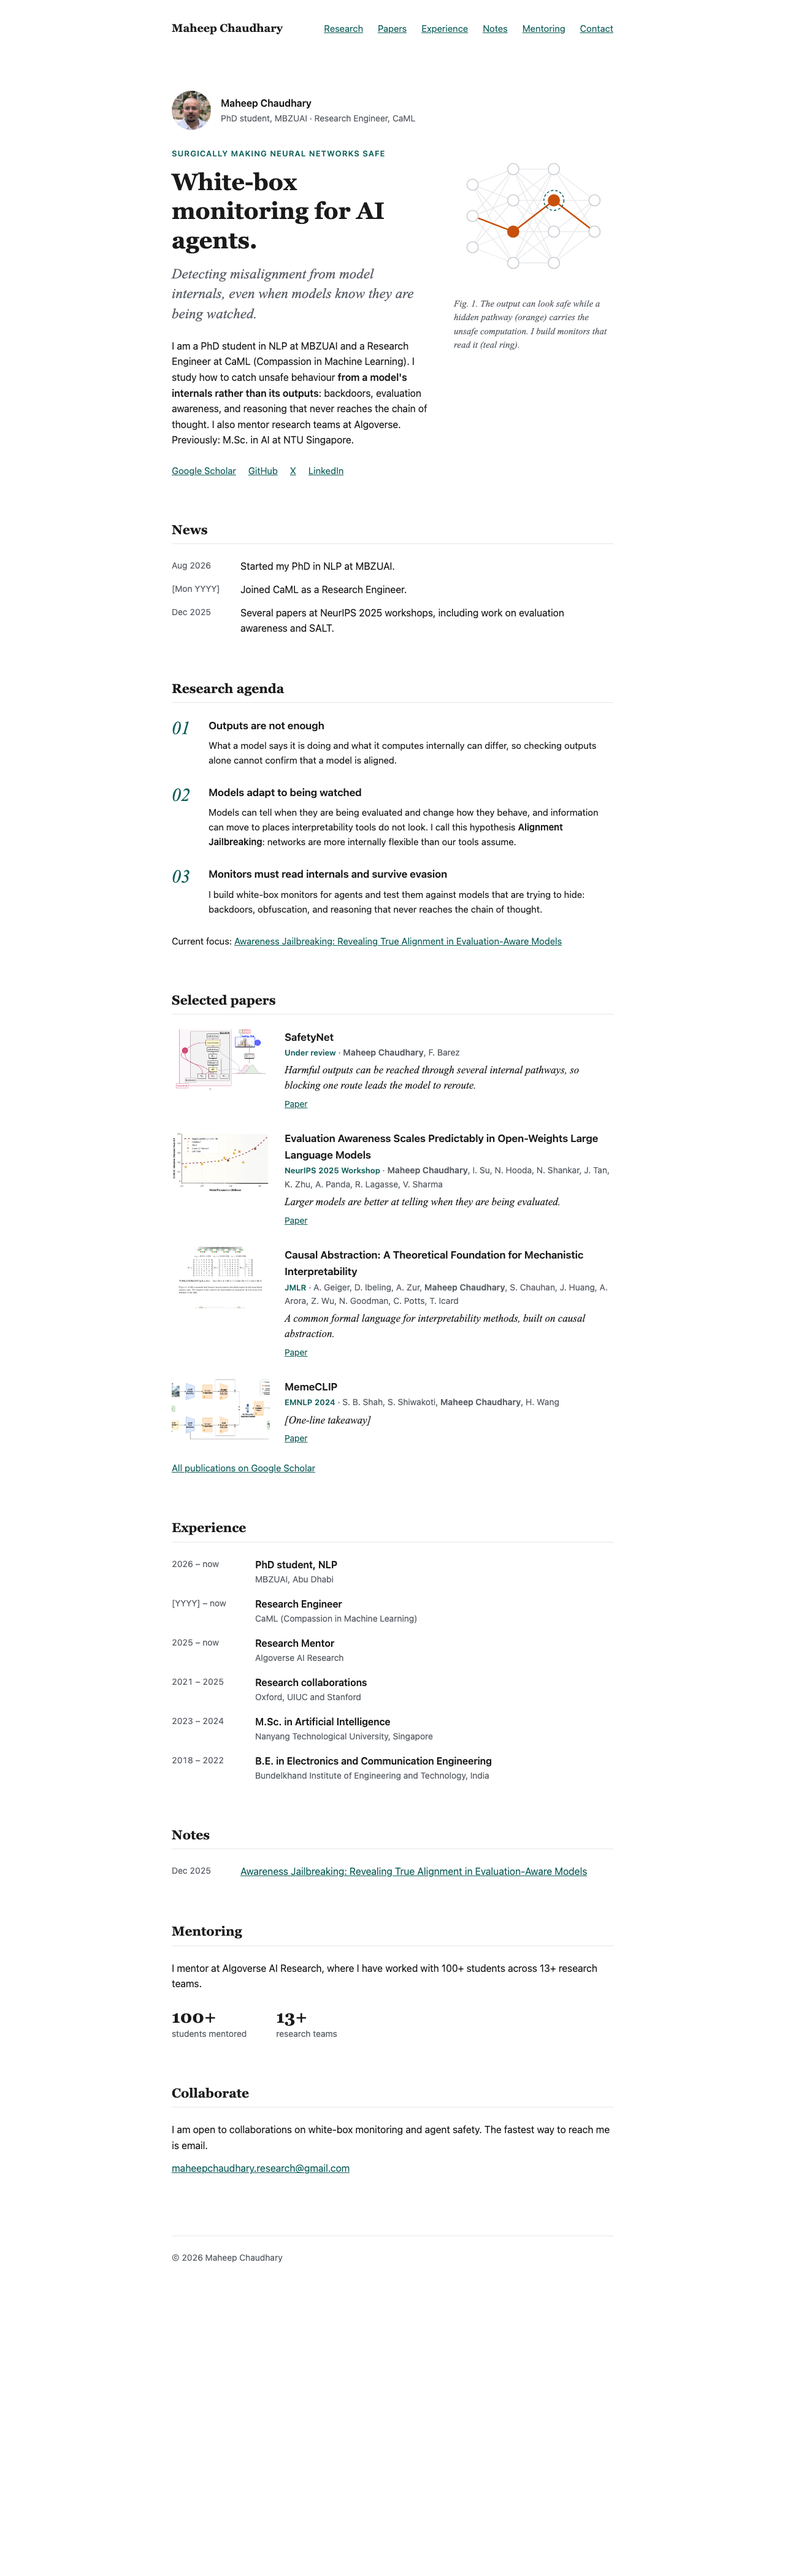
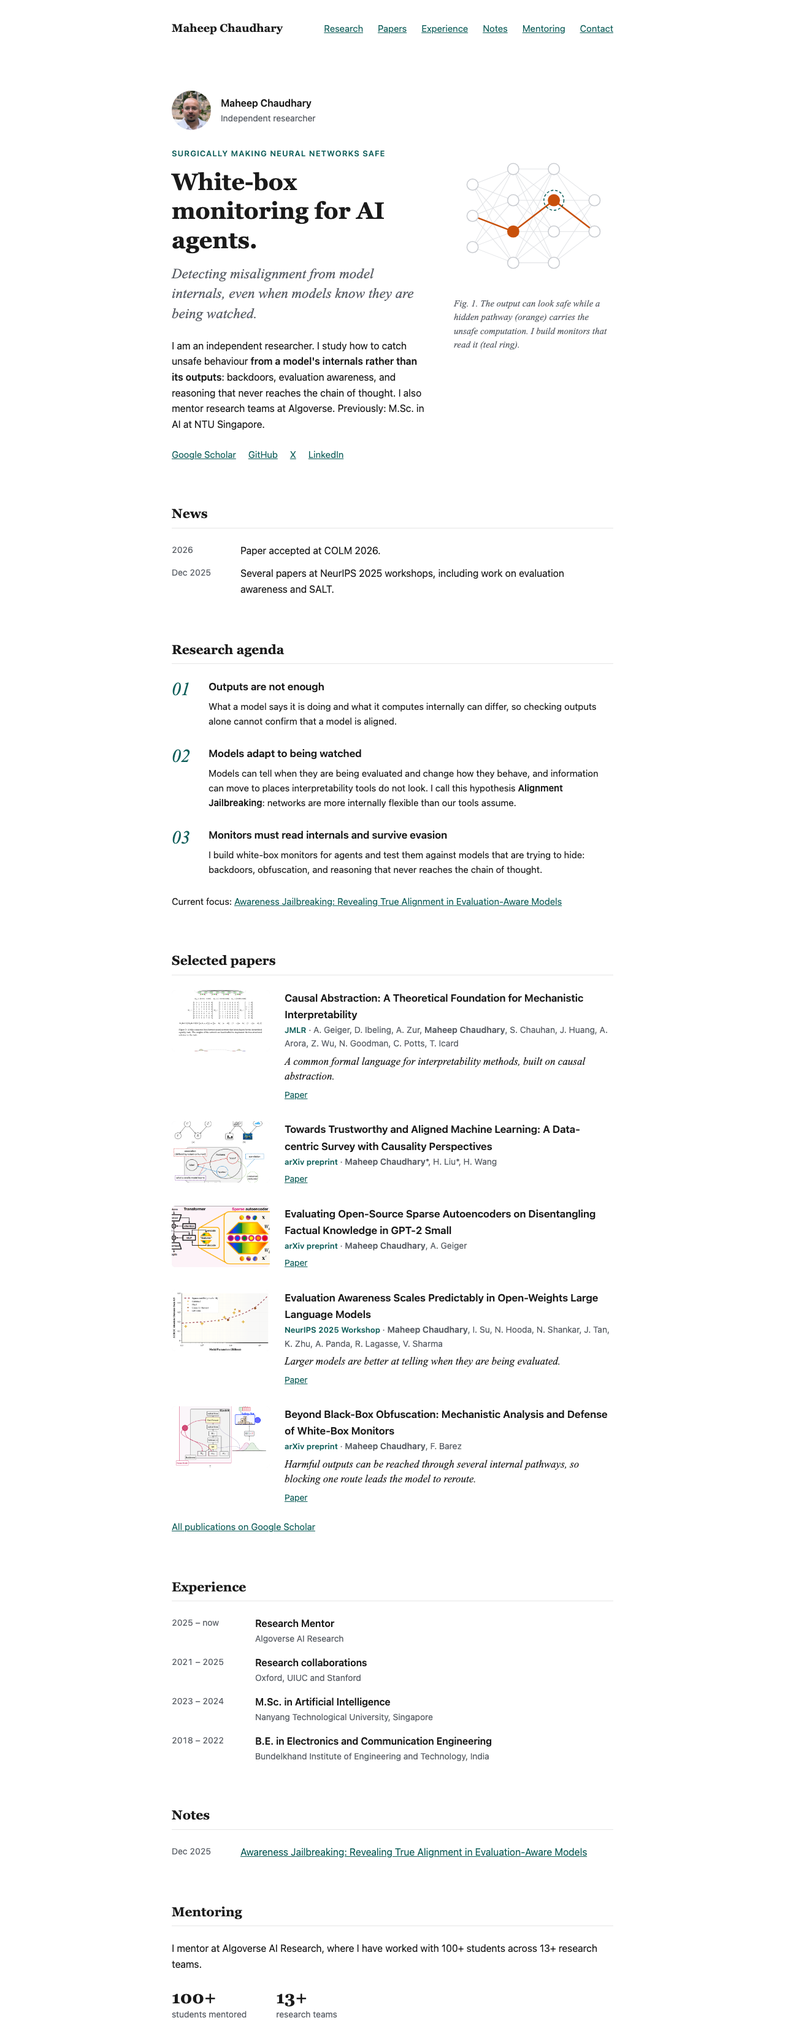
Present as independent researcher; update selected papers and news
Remove PhD and CaML mentions, list five selected papers, add COLM 2026 news.

diff --git a/index.html b/index.html
@@ -4,9 +4,9 @@
 <meta charset="utf-8">
 <meta name="viewport" content="width=device-width, initial-scale=1">
 <title>Maheep Chaudhary — White-box monitoring for AI agents</title>
-<meta name="description" content="Maheep Chaudhary: PhD student at MBZUAI and Research Engineer at CaML, working on white-box monitoring for AI agents.">
+<meta name="description" content="Maheep Chaudhary: independent researcher working on white-box monitoring for AI agents.">
 <meta property="og:title" content="Maheep Chaudhary — White-box monitoring for AI agents">
-<meta property="og:description" content="Maheep Chaudhary: PhD student at MBZUAI and Research Engineer at CaML, working on white-box monitoring for AI agents.">
+<meta property="og:description" content="Maheep Chaudhary: independent researcher working on white-box monitoring for AI agents.">
 <meta property="og:type" content="website">
 <meta property="og:url" content="https://maheepchaudhary.github.io/">
 <meta property="og:image" content="https://maheepchaudhary.github.io/images/pp.jpeg">
@@ -39,7 +39,7 @@ a{color:#0f5e5a}a:hover{color:#0a4441}
 <img src="images/pp.jpeg" alt="Maheep Chaudhary" width="64" height="64" style="flex:0 0 64px; width:64px; height:64px; border-radius:50%; object-fit:cover;">
 <div>
 <div style="font-family:Inter, system-ui, sans-serif; font-weight:600; font-size:16px;">Maheep Chaudhary</div>
-<div style="font-size:14px; color:#5a5f66; font-variant-numeric:tabular-nums;">PhD student, MBZUAI &middot; Research Engineer, CaML</div>
+<div style="font-size:14px; color:#5a5f66; font-variant-numeric:tabular-nums;">Independent researcher</div>
 </div>
 </div>
 <div style="display:flex; flex-direction:row; gap:40px; flex-wrap:wrap; align-items:flex-start;">
@@ -47,7 +47,7 @@ a{color:#0f5e5a}a:hover{color:#0a4441}
 <p style="font-size:13px; font-weight:600; text-transform:uppercase; letter-spacing:0.08em; color:var(--accent); margin:0 0 12px;">Surgically making neural networks safe</p>
 <h1 style="font-family:Merriweather, Georgia, serif; font-weight:700; font-size:38px; line-height:1.25; margin:0;">White-box monitoring for AI agents.</h1>
 <p style="font-family:'Times New Roman', Times, serif; font-style:italic; font-weight:400; font-size:23px; line-height:1.4; color:#5a5f66; margin:16px 0 0;">Detecting misalignment from model internals, even when models know they are being watched.</p>
-<p style="margin:24px 0 0;">I am a PhD student in NLP at MBZUAI and a Research Engineer at CaML (Compassion in Machine Learning). I study how to catch unsafe behaviour <strong style="font-weight:600">from a model's internals rather than its outputs</strong>: backdoors, evaluation awareness, and reasoning that never reaches the chain of thought. I also mentor research teams at Algoverse. Previously: M.Sc. in AI at NTU Singapore.</p>
+<p style="margin:24px 0 0;">I am an independent researcher. I study how to catch unsafe behaviour <strong style="font-weight:600">from a model's internals rather than its outputs</strong>: backdoors, evaluation awareness, and reasoning that never reaches the chain of thought. I also mentor research teams at Algoverse. Previously: M.Sc. in AI at NTU Singapore.</p>
 <div style="margin-top:24px; display:flex; flex-wrap:wrap; gap:8px 20px; font-size:15px;">
 <a href="https://scholar.google.com/citations?user=zLUnjyUAAAAJ&amp;hl=en" style="color:var(--accent);">Google Scholar</a>
 <a href="https://github.com/maheepchaudhary" style="color:var(--accent);">GitHub</a>
@@ -119,8 +119,7 @@ a{color:#0f5e5a}a:hover{color:#0a4441}
 <section id="news" style="margin-top:72px;">
 <h2 style="font-family:Merriweather, Georgia, serif; font-weight:700; font-size:21px; line-height:1.3; margin:0 0 24px; padding-bottom:8px; border-bottom:1px solid #e6e6e6;">News</h2>
 <ul style="list-style:none; padding:0; margin:0; display:grid; gap:12px;">
-<li style="display:flex; flex-direction:row; gap:16px;"><span style="flex:0 0 96px; font-size:14px; color:#5a5f66; font-variant-numeric:tabular-nums;">Aug 2026</span><span>Started my PhD in NLP at MBZUAI.</span></li>
-<li style="display:flex; flex-direction:row; gap:16px;"><span style="flex:0 0 96px; font-size:14px; color:#5a5f66; font-variant-numeric:tabular-nums;">[Mon YYYY]</span><span>Joined CaML as a Research Engineer.</span></li>
+<li style="display:flex; flex-direction:row; gap:16px;"><span style="flex:0 0 96px; font-size:14px; color:#5a5f66; font-variant-numeric:tabular-nums;">2026</span><span>Paper accepted at COLM 2026.</span></li>
 <li style="display:flex; flex-direction:row; gap:16px;"><span style="flex:0 0 96px; font-size:14px; color:#5a5f66; font-variant-numeric:tabular-nums;">Dec 2025</span><span>Several papers at NeurIPS 2025 workshops, including work on evaluation awareness and SALT.</span></li>
 </ul>
 </section>
@@ -140,12 +139,30 @@ a{color:#0f5e5a}a:hover{color:#0a4441}
 <div style="display:flex; flex-direction:column; gap:32px;">
 
 <div style="display:flex; flex-direction:row; gap:24px; flex-wrap:wrap;">
-<img src="images/safetynet.png" alt="SafetyNet figure" width="160" height="100" loading="lazy" style="flex:0 0 160px; width:160px; height:100px; border-radius:6px; object-fit:cover; background:#f1f2f4;">
+<img src="images/causal_abstraction.png" alt="Causal abstraction figure" width="160" height="100" loading="lazy" style="flex:0 0 160px; width:160px; height:100px; border-radius:6px; object-fit:cover; background:#f1f2f4;">
 <div style="flex:1 1 320px;">
-<h3 style="font-family:Inter, system-ui, sans-serif; font-weight:600; font-size:17px; margin:0;">SafetyNet</h3>
-<div style="font-size:14px; color:#5a5f66; font-variant-numeric:tabular-nums;"><span style="font-size:13px; font-weight:600; color:var(--accent);">Under review</span> &middot; <strong style="font-weight:600">Maheep Chaudhary</strong>, F. Barez</div>
-<p style="font-family:'Times New Roman', Times, serif; font-style:italic; font-weight:400; font-size:17px; line-height:1.45; margin:6px 0 0;">Harmful outputs can be reached through several internal pathways, so blocking one route leads the model to reroute.</p>
-<div style="display:flex; flex-wrap:wrap; gap:4px 16px; font-size:14px; margin-top:6px;"><a href="https://arxiv.org/abs/2505.14300" style="color:var(--accent);">Paper</a></div>
+<h3 style="font-family:Inter, system-ui, sans-serif; font-weight:600; font-size:17px; margin:0;">Causal Abstraction: A Theoretical Foundation for Mechanistic Interpretability</h3>
+<div style="font-size:14px; color:#5a5f66; font-variant-numeric:tabular-nums;"><span style="font-size:13px; font-weight:600; color:var(--accent);">JMLR</span> &middot; A. Geiger, D. Ibeling, A. Zur, <strong style="font-weight:600">Maheep Chaudhary</strong>, S. Chauhan, J. Huang, A. Arora, Z. Wu, N. Goodman, C. Potts, T. Icard</div>
+<p style="font-family:'Times New Roman', Times, serif; font-style:italic; font-weight:400; font-size:17px; line-height:1.45; margin:6px 0 0;">A common formal language for interpretability methods, built on causal abstraction.</p>
+<div style="display:flex; flex-wrap:wrap; gap:4px 16px; font-size:14px; margin-top:6px;"><a href="http://jmlr.org/papers/v26/23-0058.html" style="color:var(--accent);">Paper</a></div>
+</div>
+</div>
+
+<div style="display:flex; flex-direction:row; gap:24px; flex-wrap:wrap;">
+<img src="images/causality.png" alt="Causality survey figure" width="160" height="100" loading="lazy" style="flex:0 0 160px; width:160px; height:100px; border-radius:6px; object-fit:cover; background:#f1f2f4;">
+<div style="flex:1 1 320px;">
+<h3 style="font-family:Inter, system-ui, sans-serif; font-weight:600; font-size:17px; margin:0;">Towards Trustworthy and Aligned Machine Learning: A Data-centric Survey with Causality Perspectives</h3>
+<div style="font-size:14px; color:#5a5f66; font-variant-numeric:tabular-nums;"><span style="font-size:13px; font-weight:600; color:var(--accent);">arXiv preprint</span> &middot; <strong style="font-weight:600">Maheep Chaudhary</strong>*, H. Liu*, H. Wang</div>
+<div style="display:flex; flex-wrap:wrap; gap:4px 16px; font-size:14px; margin-top:6px;"><a href="https://arxiv.org/abs/2307.16851" style="color:var(--accent);">Paper</a></div>
+</div>
+</div>
+
+<div style="display:flex; flex-direction:row; gap:24px; flex-wrap:wrap;">
+<img src="images/evaluation_sae.png" alt="Sparse autoencoder evaluation figure" width="160" height="100" loading="lazy" style="flex:0 0 160px; width:160px; height:100px; border-radius:6px; object-fit:cover; background:#f1f2f4;">
+<div style="flex:1 1 320px;">
+<h3 style="font-family:Inter, system-ui, sans-serif; font-weight:600; font-size:17px; margin:0;">Evaluating Open-Source Sparse Autoencoders on Disentangling Factual Knowledge in GPT-2 Small</h3>
+<div style="font-size:14px; color:#5a5f66; font-variant-numeric:tabular-nums;"><span style="font-size:13px; font-weight:600; color:var(--accent);">arXiv preprint</span> &middot; <strong style="font-weight:600">Maheep Chaudhary</strong>, A. Geiger</div>
+<div style="display:flex; flex-wrap:wrap; gap:4px 16px; font-size:14px; margin-top:6px;"><a href="https://arxiv.org/abs/2409.04478" style="color:var(--accent);">Paper</a></div>
 </div>
 </div>
 
@@ -160,22 +177,12 @@ a{color:#0f5e5a}a:hover{color:#0a4441}
 </div>
 
 <div style="display:flex; flex-direction:row; gap:24px; flex-wrap:wrap;">
-<img src="images/causal_abstraction.png" alt="Causal abstraction figure" width="160" height="100" loading="lazy" style="flex:0 0 160px; width:160px; height:100px; border-radius:6px; object-fit:cover; background:#f1f2f4;">
+<img src="images/safetynet.png" alt="Beyond Black-Box Obfuscation figure" width="160" height="100" loading="lazy" style="flex:0 0 160px; width:160px; height:100px; border-radius:6px; object-fit:cover; background:#f1f2f4;">
 <div style="flex:1 1 320px;">
-<h3 style="font-family:Inter, system-ui, sans-serif; font-weight:600; font-size:17px; margin:0;">Causal Abstraction: A Theoretical Foundation for Mechanistic Interpretability</h3>
-<div style="font-size:14px; color:#5a5f66; font-variant-numeric:tabular-nums;"><span style="font-size:13px; font-weight:600; color:var(--accent);">JMLR</span> &middot; A. Geiger, D. Ibeling, A. Zur, <strong style="font-weight:600">Maheep Chaudhary</strong>, S. Chauhan, J. Huang, A. Arora, Z. Wu, N. Goodman, C. Potts, T. Icard</div>
-<p style="font-family:'Times New Roman', Times, serif; font-style:italic; font-weight:400; font-size:17px; line-height:1.45; margin:6px 0 0;">A common formal language for interpretability methods, built on causal abstraction.</p>
-<div style="display:flex; flex-wrap:wrap; gap:4px 16px; font-size:14px; margin-top:6px;"><a href="http://jmlr.org/papers/v26/23-0058.html" style="color:var(--accent);">Paper</a></div>
-</div>
-</div>
-
-<div style="display:flex; flex-direction:row; gap:24px; flex-wrap:wrap;">
-<img src="images/memeclip.png" alt="MemeCLIP figure" width="160" height="100" loading="lazy" style="flex:0 0 160px; width:160px; height:100px; border-radius:6px; object-fit:cover; background:#f1f2f4;">
-<div style="flex:1 1 320px;">
-<h3 style="font-family:Inter, system-ui, sans-serif; font-weight:600; font-size:17px; margin:0;">MemeCLIP</h3>
-<div style="font-size:14px; color:#5a5f66; font-variant-numeric:tabular-nums;"><span style="font-size:13px; font-weight:600; color:var(--accent);">EMNLP 2024</span> &middot; S. B. Shah, S. Shiwakoti, <strong style="font-weight:600">Maheep Chaudhary</strong>, H. Wang</div>
-<p style="font-family:'Times New Roman', Times, serif; font-style:italic; font-weight:400; font-size:17px; line-height:1.45; margin:6px 0 0;">[One-line takeaway]</p>
-<div style="display:flex; flex-wrap:wrap; gap:4px 16px; font-size:14px; margin-top:6px;"><a href="https://aclanthology.org/2024.emnlp-main.959/" style="color:var(--accent);">Paper</a></div>
+<h3 style="font-family:Inter, system-ui, sans-serif; font-weight:600; font-size:17px; margin:0;">Beyond Black-Box Obfuscation: Mechanistic Analysis and Defense of White-Box Monitors</h3>
+<div style="font-size:14px; color:#5a5f66; font-variant-numeric:tabular-nums;"><span style="font-size:13px; font-weight:600; color:var(--accent);">arXiv preprint</span> &middot; <strong style="font-weight:600">Maheep Chaudhary</strong>, F. Barez</div>
+<p style="font-family:'Times New Roman', Times, serif; font-style:italic; font-weight:400; font-size:17px; line-height:1.45; margin:6px 0 0;">Harmful outputs can be reached through several internal pathways, so blocking one route leads the model to reroute.</p>
+<div style="display:flex; flex-wrap:wrap; gap:4px 16px; font-size:14px; margin-top:6px;"><a href="https://arxiv.org/abs/2505.14300" style="color:var(--accent);">Paper</a></div>
 </div>
 </div>
 
@@ -186,8 +193,6 @@ a{color:#0f5e5a}a:hover{color:#0a4441}
 <section id="experience" style="margin-top:72px;">
 <h2 style="font-family:Merriweather, Georgia, serif; font-weight:700; font-size:21px; line-height:1.3; margin:0 0 24px; padding-bottom:8px; border-bottom:1px solid #e6e6e6;">Experience</h2>
 <ul style="list-style:none; padding:0; margin:0; display:grid; gap:16px;">
-<li style="display:flex; flex-direction:row; gap:16px; flex-wrap:wrap;"><span style="flex:0 0 120px; font-size:14px; color:#5a5f66; font-variant-numeric:tabular-nums;">2026 – now</span><div style="flex:1 1 320px;"><div style="font-size:16px; font-weight:600;">PhD student, NLP</div><div style="font-size:14px; color:#5a5f66; font-variant-numeric:tabular-nums;">MBZUAI, Abu Dhabi</div></div></li>
-<li style="display:flex; flex-direction:row; gap:16px; flex-wrap:wrap;"><span style="flex:0 0 120px; font-size:14px; color:#5a5f66; font-variant-numeric:tabular-nums;">[YYYY] – now</span><div style="flex:1 1 320px;"><div style="font-size:16px; font-weight:600;">Research Engineer</div><div style="font-size:14px; color:#5a5f66; font-variant-numeric:tabular-nums;">CaML (Compassion in Machine Learning)</div></div></li>
 <li style="display:flex; flex-direction:row; gap:16px; flex-wrap:wrap;"><span style="flex:0 0 120px; font-size:14px; color:#5a5f66; font-variant-numeric:tabular-nums;">2025 – now</span><div style="flex:1 1 320px;"><div style="font-size:16px; font-weight:600;">Research Mentor</div><div style="font-size:14px; color:#5a5f66; font-variant-numeric:tabular-nums;">Algoverse AI Research</div></div></li>
 <li style="display:flex; flex-direction:row; gap:16px; flex-wrap:wrap;"><span style="flex:0 0 120px; font-size:14px; color:#5a5f66; font-variant-numeric:tabular-nums;">2021 – 2025</span><div style="flex:1 1 320px;"><div style="font-size:16px; font-weight:600;">Research collaborations</div><div style="font-size:14px; color:#5a5f66; font-variant-numeric:tabular-nums;">Oxford, UIUC and Stanford</div></div></li>
 <li style="display:flex; flex-direction:row; gap:16px; flex-wrap:wrap;"><span style="flex:0 0 120px; font-size:14px; color:#5a5f66; font-variant-numeric:tabular-nums;">2023 – 2024</span><div style="flex:1 1 320px;"><div style="font-size:16px; font-weight:600;">M.Sc. in Artificial Intelligence</div><div style="font-size:14px; color:#5a5f66; font-variant-numeric:tabular-nums;">Nanyang Technological University, Singapore</div></div></li>
